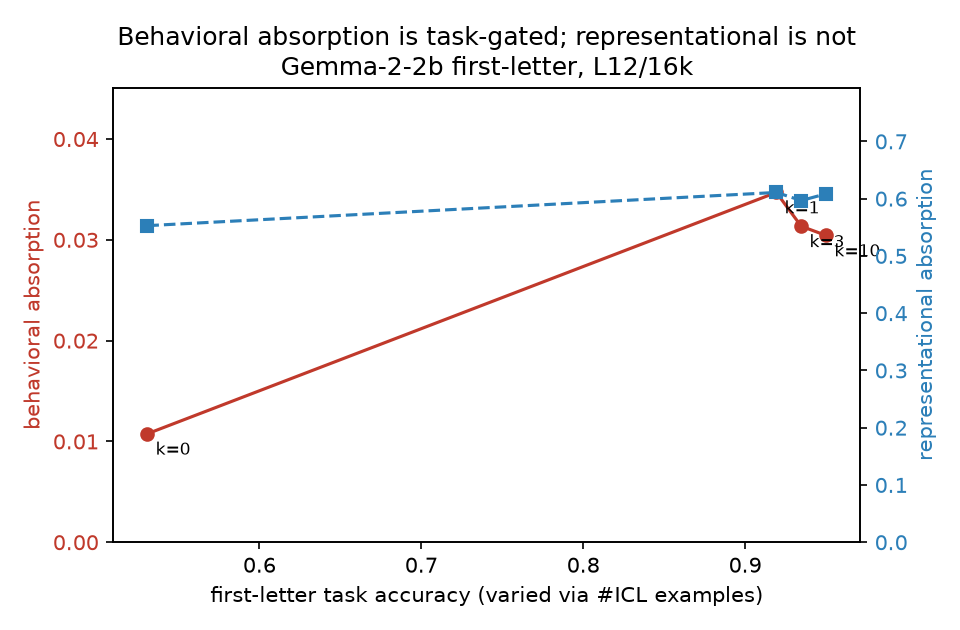
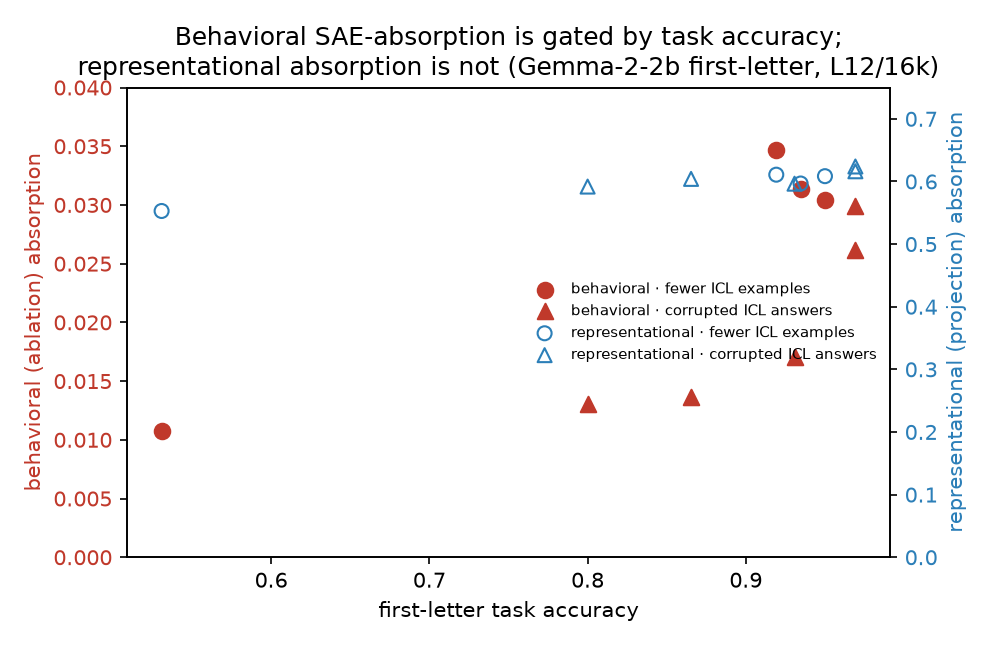
[mechanism] corrupted-ICL sweep solidifies the dissociation across two manipulations
- corrupt sweep: acc 0.80->0.97, behavioral 0.013->0.030 (monotonic), representational flat ~0.60
- combined with ICL-count sweep: ~9 points span acc 0.53-0.97; behavioral tracks accuracy,
  representational invariant, under two independent accuracy manipulations

diff --git a/plot_mechanism.py b/plot_mechanism.py
@@ -1,14 +1,20 @@
 import json
 from pathlib import Path
 import matplotlib; matplotlib.use("Agg"); import matplotlib.pyplot as plt
-d = json.loads((Path("results/icl_sweep/sweep.json")).read_text())
-acc = [r["accuracy"] for r in d]; beh = [r["behavioral"] for r in d]; rep = [r["representational"] for r in d]; ks=[r["k"] for r in d]
-fig, ax1 = plt.subplots(figsize=(6.4,4.2))
-ax1.plot(acc, beh, "o-", color="#c0392b", label="behavioral (ablation)")
-ax1.set_xlabel("first-letter task accuracy (varied via #ICL examples)"); ax1.set_ylabel("behavioral absorption", color="#c0392b")
-ax1.tick_params(axis="y", labelcolor="#c0392b"); ax1.set_ylim(0, max(beh)*1.3)
-ax2 = ax1.twinx(); ax2.plot(acc, rep, "s--", color="#2c7fb8", label="representational (projection)")
-ax2.set_ylabel("representational absorption", color="#2c7fb8"); ax2.tick_params(axis="y", labelcolor="#2c7fb8"); ax2.set_ylim(0, max(rep)*1.3)
-for a,b,k in zip(acc,beh,ks): ax1.annotate(f"k={k}", (a,b), textcoords="offset points", xytext=(4,-10), fontsize=8)
-ax1.set_title("Behavioral absorption is task-gated; representational is not\nGemma-2-2b first-letter, L12/16k")
-fig.tight_layout(); fig.savefig("results/icl_sweep/mechanism.png", dpi=150); print("saved mechanism.png")
+icl = json.loads(Path("results/icl_sweep/sweep.json").read_text())
+cor = json.loads(Path("results/icl_sweep/corrupt_sweep.json").read_text())
+fig, ax1 = plt.subplots(figsize=(6.6,4.3))
+ax2 = ax1.twinx()
+# behavioral (left), representational (right); two manipulations, distinct markers
+for data, mk, lab in [(icl,"o","fewer ICL examples"), (cor,"^","corrupted ICL answers")]:
+    a=[r["accuracy"] for r in data]; b=[r["behavioral"] for r in data]; rp=[r["representational"] for r in data]
+    ax1.scatter(a,b, marker=mk, color="#c0392b", s=55, label=f"behavioral · {lab}")
+    ax2.scatter(a,rp, marker=mk, color="#2c7fb8", s=45, facecolors="none", label=f"representational · {lab}")
+ax1.set_xlabel("first-letter task accuracy")
+ax1.set_ylabel("behavioral (ablation) absorption", color="#c0392b"); ax1.tick_params(axis="y", labelcolor="#c0392b")
+ax2.set_ylabel("representational (projection) absorption", color="#2c7fb8"); ax2.tick_params(axis="y", labelcolor="#2c7fb8")
+ax1.set_ylim(0,0.04); ax2.set_ylim(0,0.75)
+ax1.set_title("Behavioral SAE-absorption is gated by task accuracy;\nrepresentational absorption is not (Gemma-2-2b first-letter, L12/16k)")
+h1,l1=ax1.get_legend_handles_labels(); h2,l2=ax2.get_legend_handles_labels()
+ax1.legend(h1+h2, l1+l2, fontsize=7, loc="center right", frameon=False)
+fig.tight_layout(); fig.savefig("results/icl_sweep/mechanism.png", dpi=150); print("saved combined mechanism.png")
